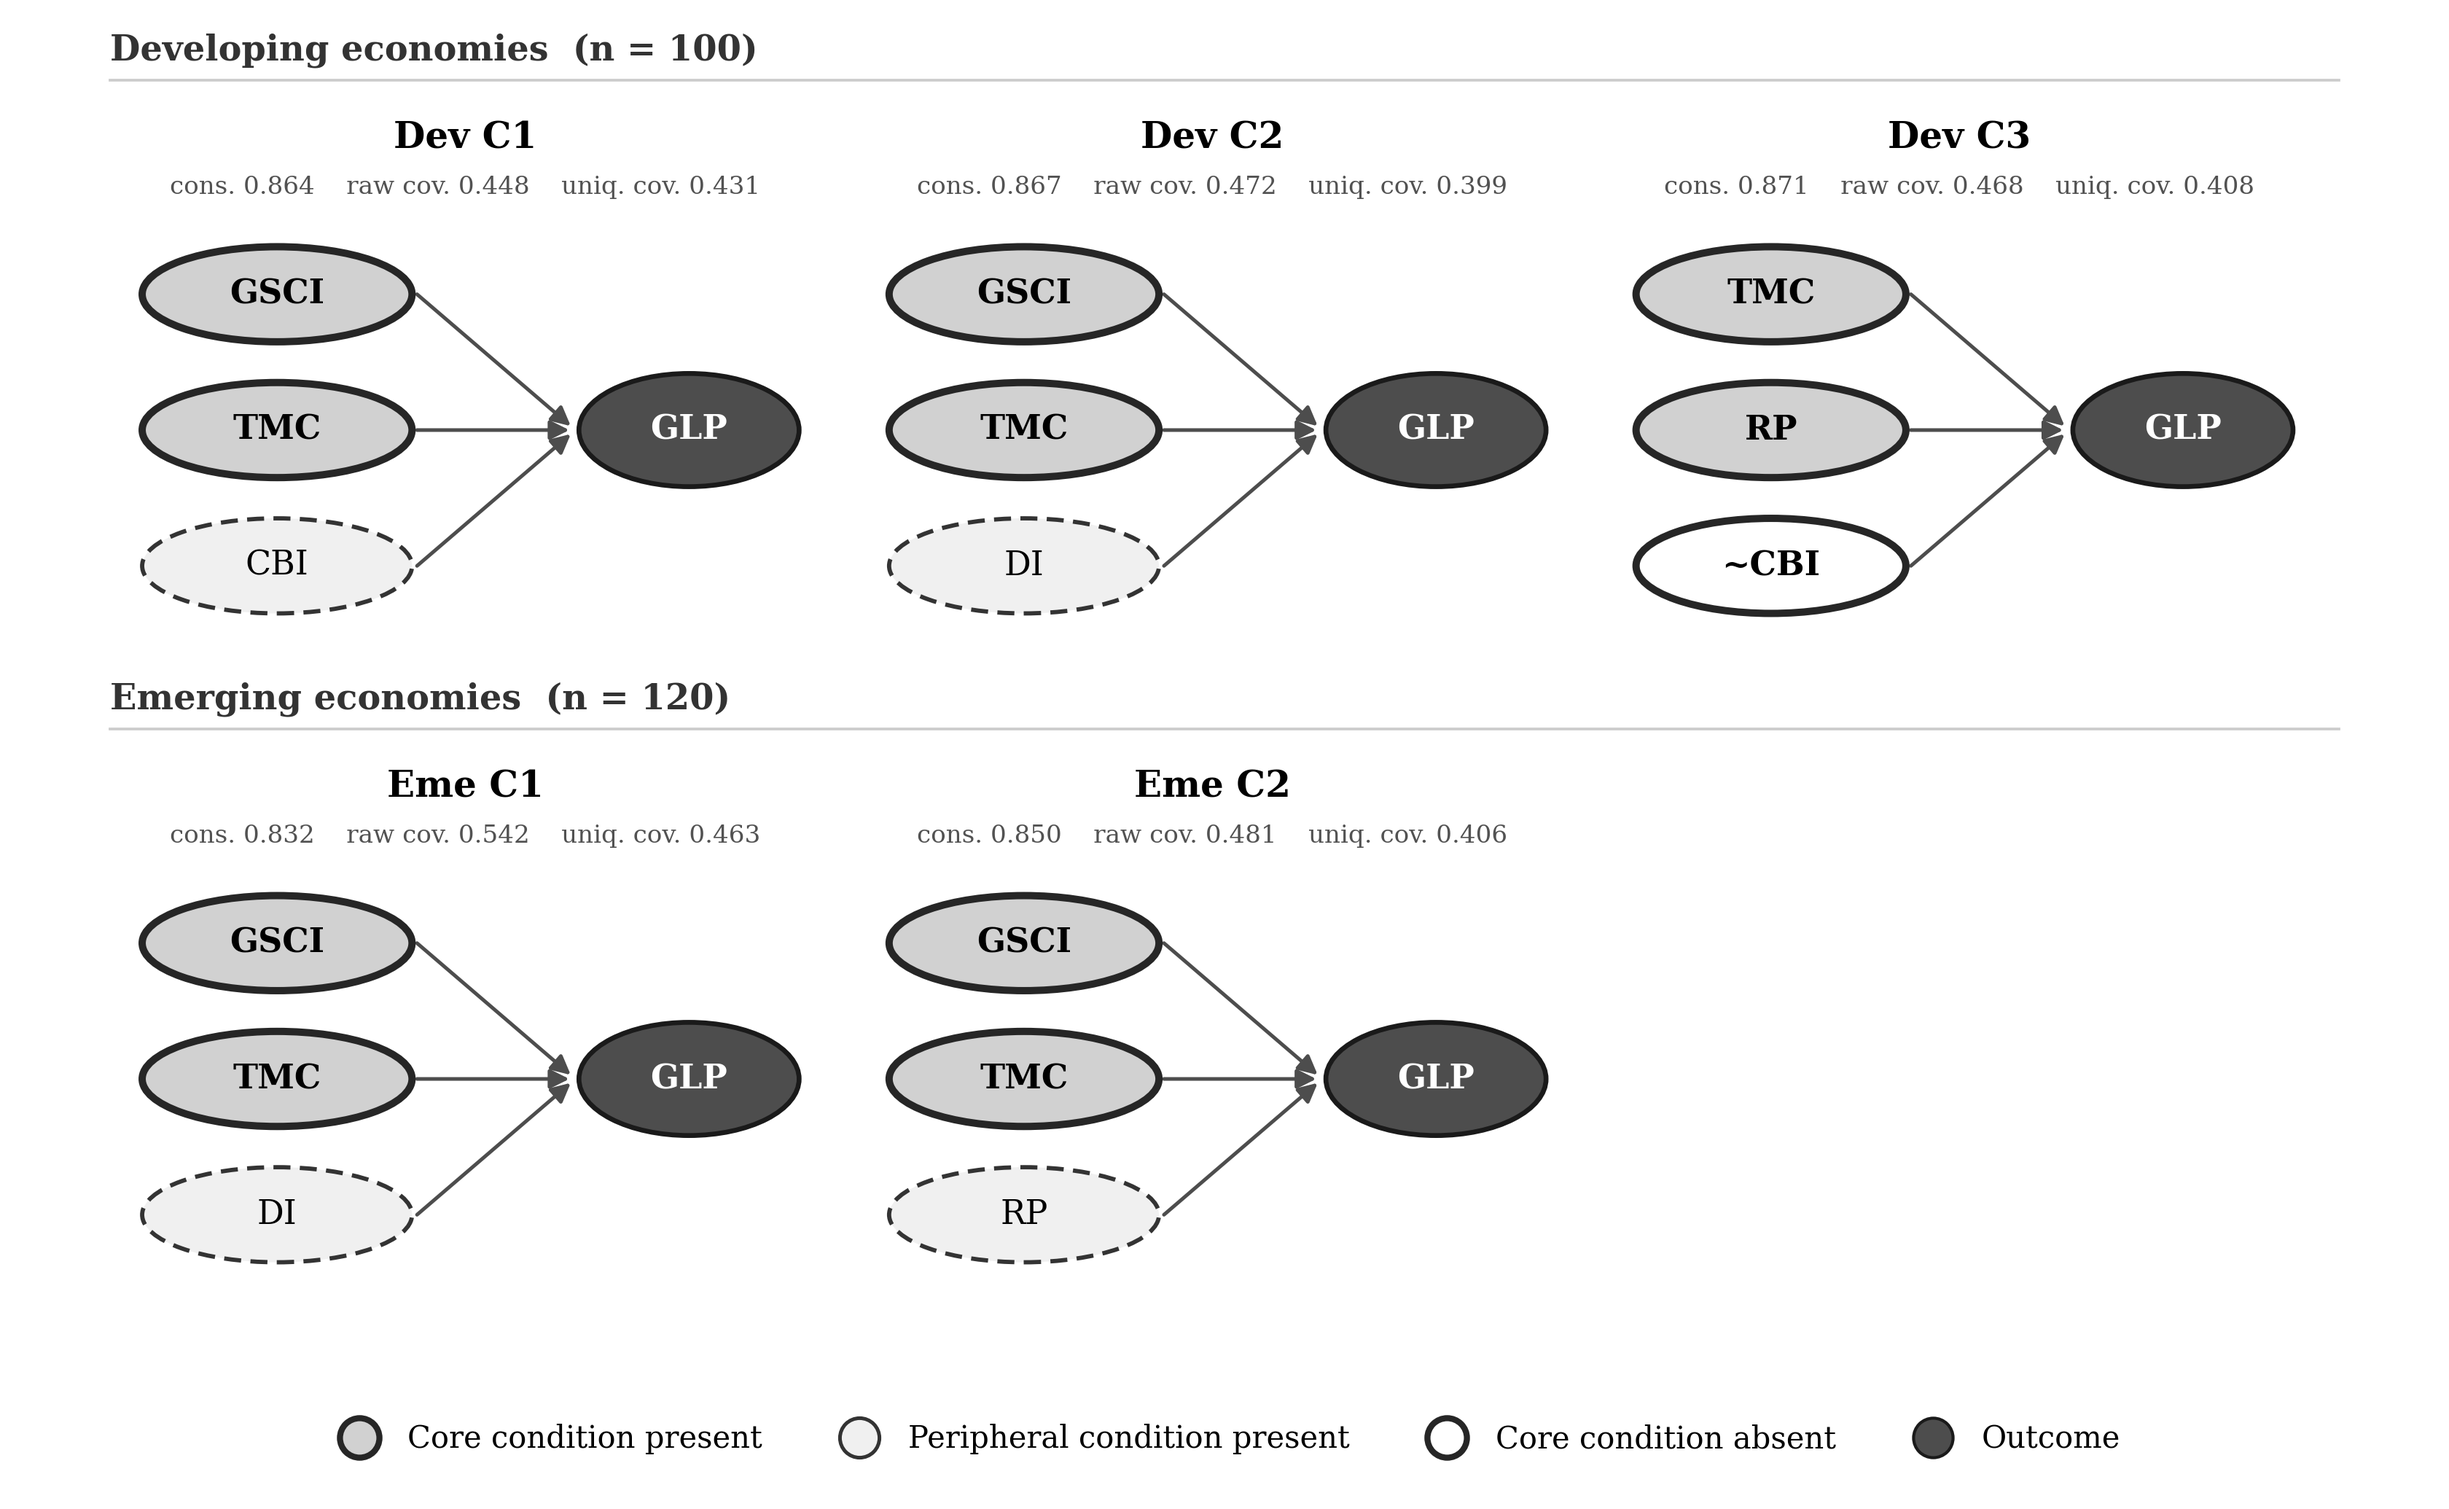
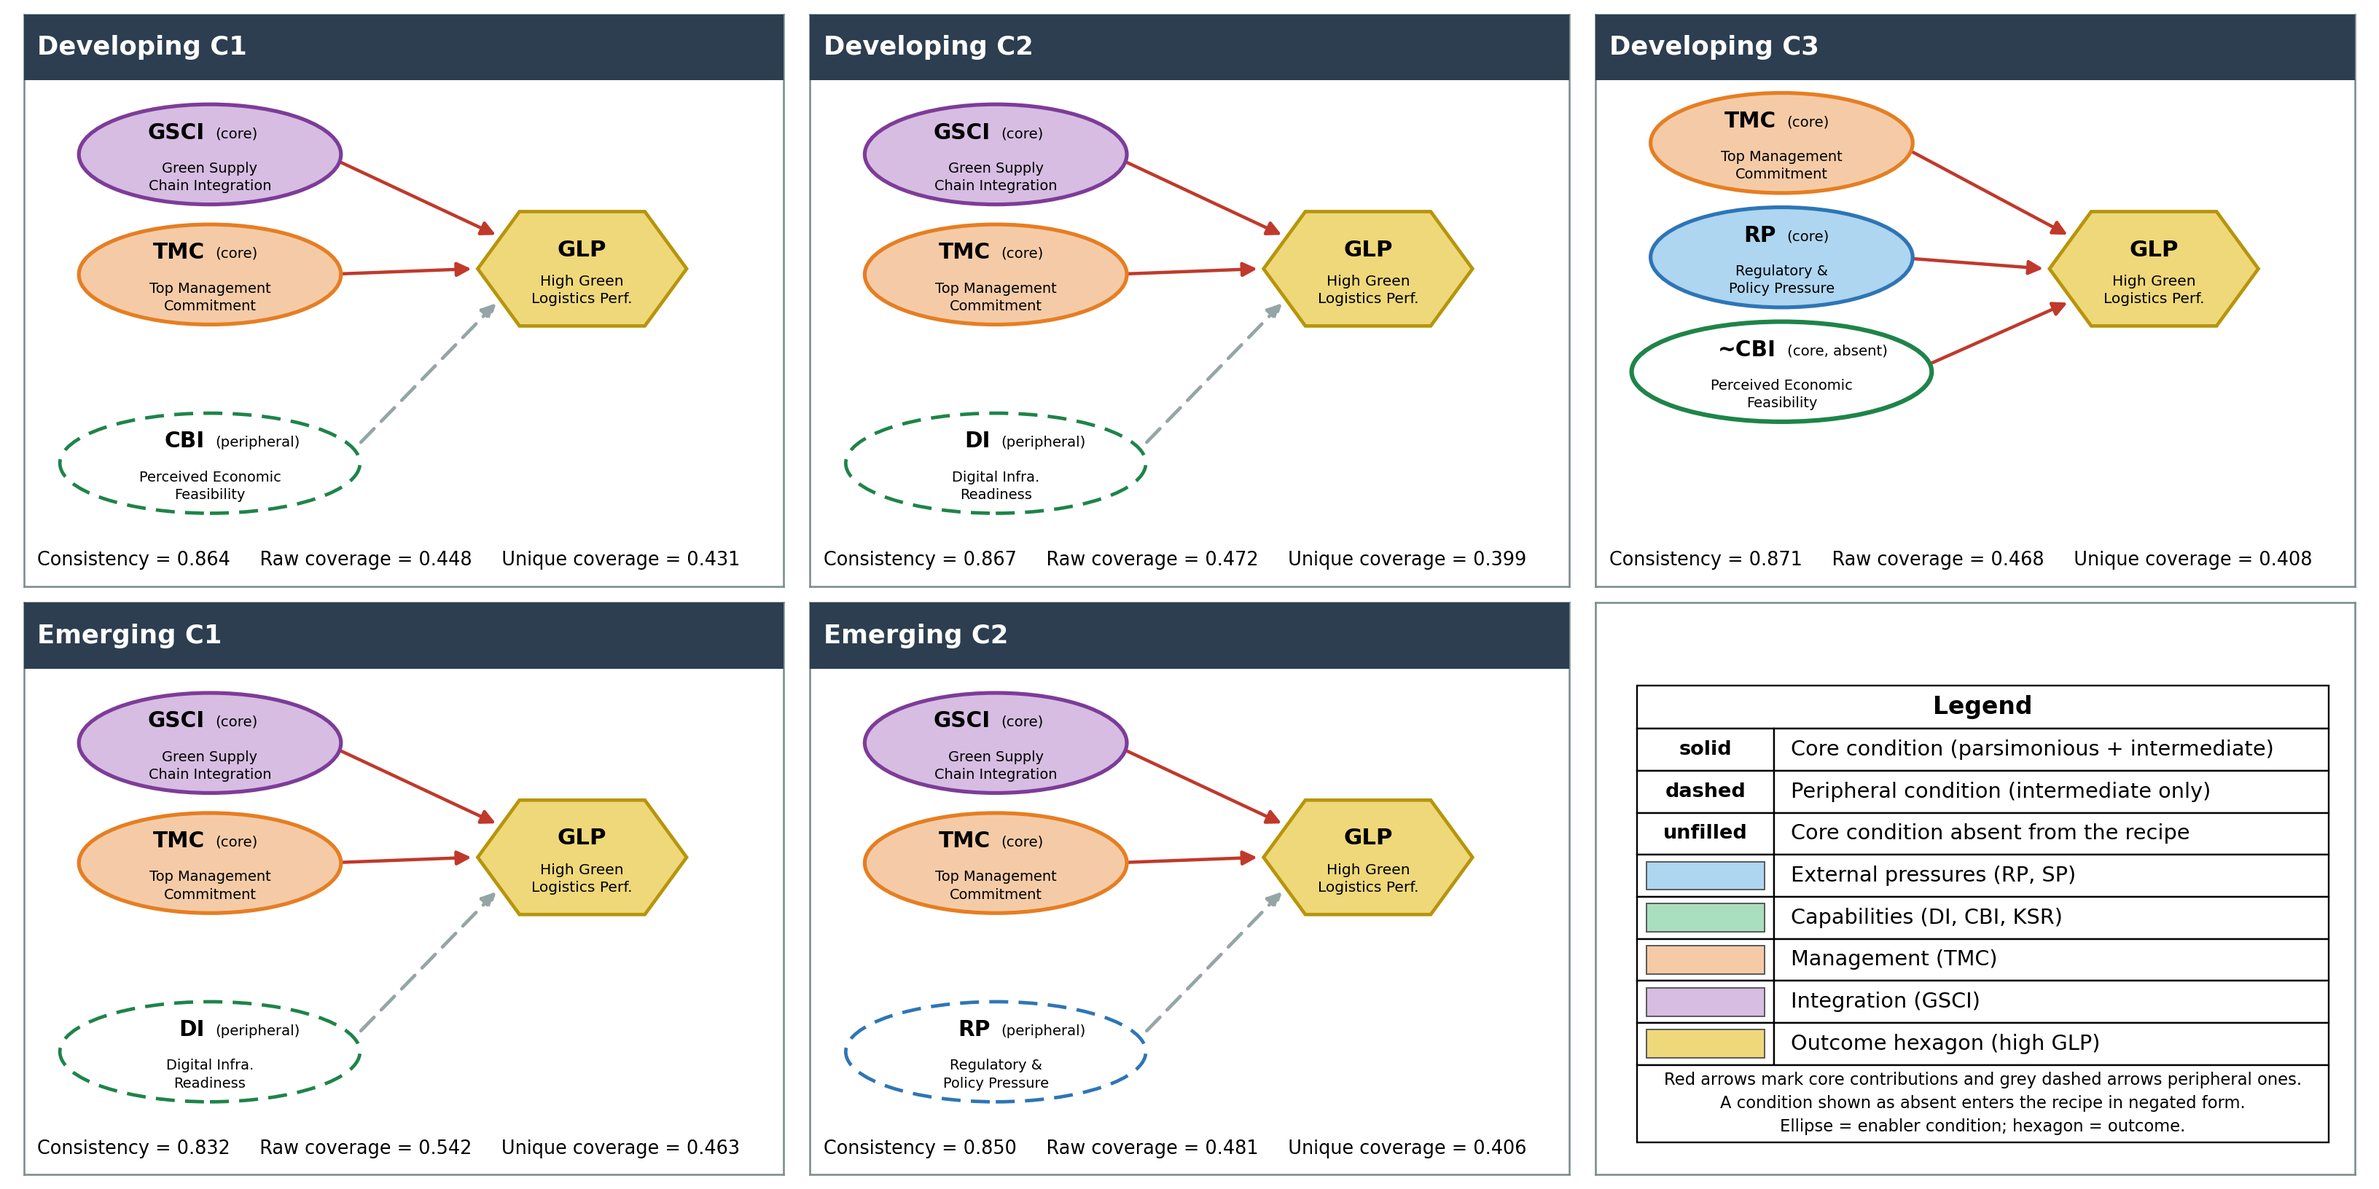
Recolour Figure 8 to match the manuscript's construct-family palette
Adopts the colour scheme from Figures 2 and 8 as supplied: blue for external
pressures, green for capabilities, orange for management, purple for
integration, yellow hexagon for the outcome, navy panel headers, red arrows for
core contributions and grey dashed for peripheral. Adds a fourth encoding for a
core condition that is absent, needed for ~CBI in Developing C3. Uses the
renamed construct label Perceived Economic Feasibility.

diff --git a/revision/fsqca/fig8_colour.py b/revision/fsqca/fig8_colour.py
@@ -1,0 +1,176 @@
+import matplotlib
+matplotlib.use('Agg')
+import matplotlib.pyplot as plt
+from matplotlib.patches import Ellipse, Polygon, Rectangle, FancyArrowPatch
+
+plt.rcParams.update({'font.family': 'DejaVu Sans'})
+
+NAVY, RED, GREY, BORDER = '#2C3E50', '#C0392B', '#95A5A6', '#7F8C8D'
+FAM = {
+    'RP':   ('#AED6F1', '#2E75B6'),
+    'SP':   ('#AED6F1', '#2E75B6'),
+    'DI':   ('#A9DFBF', '#1E8449'),
+    'CBI':  ('#A9DFBF', '#1E8449'),
+    'KSR':  ('#A9DFBF', '#1E8449'),
+    'TMC':  ('#F5CBA7', '#E67E22'),
+    'GSCI': ('#D7BDE2', '#7D3C98'),
+}
+NAME = {
+    'RP': 'Regulatory &\nPolicy Pressure',
+    'SP': 'Stakeholder &\nCustomer Pressure',
+    'DI': 'Digital Infra.\nReadiness',
+    'CBI': 'Perceived Economic\nFeasibility',
+    'KSR': 'Knowledge &\nSkill Readiness',
+    'TMC': 'Top Management\nCommitment',
+    'GSCI': 'Green Supply\nChain Integration',
+}
+
+# (panel title, [(code, role)], consistency, raw cov, unique cov)
+# role: 'core' | 'periph' | 'coreabs'
+PANELS = [
+    ('Developing C1', [('GSCI', 'core'), ('TMC', 'core'), ('CBI', 'periph')], 0.864, 0.448, 0.431),
+    ('Developing C2', [('GSCI', 'core'), ('TMC', 'core'), ('DI', 'periph')], 0.867, 0.472, 0.399),
+    ('Developing C3', [('TMC', 'core'), ('RP', 'core'), ('CBI', 'coreabs')], 0.871, 0.468, 0.408),
+    ('Emerging C1', [('GSCI', 'core'), ('TMC', 'core'), ('DI', 'periph')], 0.832, 0.542, 0.463),
+    ('Emerging C2', [('GSCI', 'core'), ('TMC', 'core'), ('RP', 'periph')], 0.850, 0.481, 0.406),
+]
+
+fig = plt.figure(figsize=(19.2, 9.6))
+ML, MR, MT, MB, GX, GY = 0.010, 0.010, 0.012, 0.012, 0.011, 0.014
+PW = (1 - ML - MR - 2 * GX) / 3
+PH = (1 - MT - MB - GY) / 2
+
+
+def cell(r, c):
+    left = ML + c * (PW + GX)
+    bot = 1 - MT - PH - r * (PH + GY)
+    ax = fig.add_axes([left, bot, PW, PH])
+    ax.set_xlim(0, 1); ax.set_ylim(0, 1)
+    ax.set_xticks([]); ax.set_yticks([])
+    for s in ax.spines.values():
+        s.set_color(BORDER); s.set_linewidth(1.1)
+    return ax
+
+
+def hexagon(cx, cy, w, h):
+    k = w * 0.20
+    return [(cx - w / 2, cy), (cx - w / 2 + k, cy + h / 2), (cx + w / 2 - k, cy + h / 2),
+            (cx + w / 2, cy), (cx + w / 2 - k, cy - h / 2), (cx - w / 2 + k, cy - h / 2)]
+
+
+def draw_panel(ax, title, conds, cons, raw, uniq):
+    ax.add_patch(Rectangle((0, 0.885), 1, 0.115, transform=ax.transAxes,
+                           facecolor=NAVY, edgecolor='none', zorder=5))
+    ax.text(0.018, 0.9425, title, transform=ax.transAxes, color='white',
+            fontsize=15, fontweight='bold', va='center', ha='left', zorder=6)
+
+    solid = [c for c in conds if c[1] in ('core', 'coreabs')]
+    dashed = [c for c in conds if c[1] == 'periph']
+    ys_solid = {1: [0.63], 2: [0.755, 0.545], 3: [0.775, 0.575, 0.375]}[len(solid)]
+    ys_dash = {0: [], 1: [0.215], 2: [0.28, 0.145]}[len(dashed)]
+
+    HX, HY, HW, HH = 0.735, 0.555, 0.275, 0.20
+    ax.add_patch(Polygon(hexagon(HX, HY, HW, HH), closed=True,
+                         facecolor='#EFD87A', edgecolor='#B7950B', lw=2.0, zorder=4))
+    ax.text(HX, HY + 0.033, 'GLP', ha='center', va='center', fontsize=13,
+            fontweight='bold', zorder=5)
+    ax.text(HX, HY - 0.038, 'High Green\nLogistics Perf.', ha='center', va='center',
+            fontsize=8.6, linespacing=1.35, zorder=5)
+
+    def hex_edge(dy):
+        """point on the hexagon's left boundary at vertical offset dy"""
+        k = HW * 0.20
+        x = HX - HW / 2 + k * min(abs(dy) / (HH / 2), 1.0)
+        return (x - 0.006, HY + dy)
+
+    items = list(zip(solid, ys_solid)) + list(zip(dashed, ys_dash))
+    items.sort(key=lambda it: -it[1])
+    n = len(items)
+    offs = [0.0] if n == 1 else [0.058 - i * (0.116 / (n - 1)) for i in range(n)]
+    dymap = {id(it): o for it, o in zip(items, offs)}
+
+    for it in items:
+        (code, role), y = it
+        tip = hex_edge(dymap[id(it)])
+        fill, edge = FAM[code]
+        if role == 'periph':
+            e = Ellipse((0.245, y), 0.395, 0.175, facecolor='white', edgecolor=edge,
+                        lw=2.0, ls=(0, (5.5, 3.0)), zorder=3)
+            lbl, half = '(peripheral)', 0.395 / 2
+        elif role == 'coreabs':
+            e = Ellipse((0.245, y), 0.395, 0.175, facecolor='white', edgecolor=edge,
+                        lw=2.6, zorder=3)
+            lbl, half = '(core, absent)', 0.395 / 2
+        else:
+            e = Ellipse((0.245, y), 0.345, 0.175, facecolor=fill, edgecolor=edge,
+                        lw=2.2, zorder=3)
+            lbl, half = '(core)', 0.345 / 2
+        ax.add_patch(e)
+        pre = '~' if role == 'coreabs' else ''
+        ax.text(0.238, y + 0.038, pre + code, ha='right', va='center',
+                fontsize=12.5, fontweight='bold', zorder=5)
+        ax.text(0.252, y + 0.036, lbl, ha='left', va='center', fontsize=8.4, zorder=5)
+        ax.text(0.245, y - 0.040, NAME[code], ha='center', va='center',
+                fontsize=8.2, linespacing=1.35, zorder=5)
+
+        start = (0.245 + half * 0.87, y)
+        if role == 'periph':
+            ax.add_patch(FancyArrowPatch(start, tip, arrowstyle='-|>', mutation_scale=17,
+                                         lw=2.0, color=GREY, ls=(0, (5.5, 3.0)),
+                                         shrinkA=0, shrinkB=1, zorder=2))
+        else:
+            ax.add_patch(FancyArrowPatch(start, tip, arrowstyle='-|>', mutation_scale=17,
+                                         lw=1.9, color=RED, shrinkA=0, shrinkB=1, zorder=2))
+
+    ax.text(0.018, 0.045, f'Consistency = {cons:.3f}     Raw coverage = {raw:.3f}'
+                          f'     Unique coverage = {uniq:.3f}',
+            transform=ax.transAxes, fontsize=10.8, va='center', ha='left')
+
+
+for i, p in enumerate(PANELS):
+    draw_panel(cell(i // 3, i % 3), *p)
+
+# ---------------- legend cell ----------------
+ax = cell(1, 2)
+X0, X1, XS = 0.055, 0.965, 0.235
+rows = [
+    ('solid', 'Core condition (parsimonious + intermediate)', None),
+    ('dashed', 'Peripheral condition (intermediate only)', None),
+    ('unfilled', 'Core condition absent from the recipe', None),
+    (None, 'External pressures (RP, SP)', '#AED6F1'),
+    (None, 'Capabilities (DI, CBI, KSR)', '#A9DFBF'),
+    (None, 'Management (TMC)', '#F5CBA7'),
+    (None, 'Integration (GSCI)', '#D7BDE2'),
+    (None, 'Outcome hexagon (high GLP)', '#EFD87A'),
+]
+TOP, RH = 0.855, 0.0735
+TITLE_H = 0.075
+ax.add_patch(Rectangle((X0, TOP - TITLE_H), X1 - X0, TITLE_H, facecolor='white',
+                       edgecolor='black', lw=1.0))
+ax.text((X0 + X1) / 2, TOP - TITLE_H / 2, 'Legend', ha='center', va='center',
+        fontsize=14, fontweight='bold')
+y = TOP - TITLE_H
+for word, txt, swatch in rows:
+    ax.add_patch(Rectangle((X0, y - RH), XS - X0, RH, facecolor='white',
+                           edgecolor='black', lw=1.0))
+    ax.add_patch(Rectangle((XS, y - RH), X1 - XS, RH, facecolor='white',
+                           edgecolor='black', lw=1.0))
+    if swatch:
+        ax.add_patch(Rectangle((X0 + 0.012, y - RH + 0.012), XS - X0 - 0.024, RH - 0.024,
+                               facecolor=swatch, edgecolor='#555555', lw=0.8))
+    else:
+        ax.text((X0 + XS) / 2, y - RH / 2, word, ha='center', va='center',
+                fontsize=11.5, fontweight='bold')
+    ax.text(XS + 0.022, y - RH / 2, txt, ha='left', va='center', fontsize=12.2)
+    y -= RH
+ax.add_patch(Rectangle((X0, y - 0.135), X1 - X0, 0.135, facecolor='white',
+                       edgecolor='black', lw=1.0))
+ax.text((X0 + X1) / 2, y - 0.135 / 2,
+        'Red arrows mark core contributions and grey dashed arrows peripheral ones.\n'
+        'A condition shown as absent enters the recipe in negated form.\n'
+        'Ellipse = enabler condition; hexagon = outcome.',
+        ha='center', va='center', fontsize=9.6, linespacing=1.5)
+
+out = '/projects/sandbox/MetaV/Figure8_configuration_paths_revised.png'
+plt.savefig(out, dpi=170, facecolor='white')
+print('written', out)
